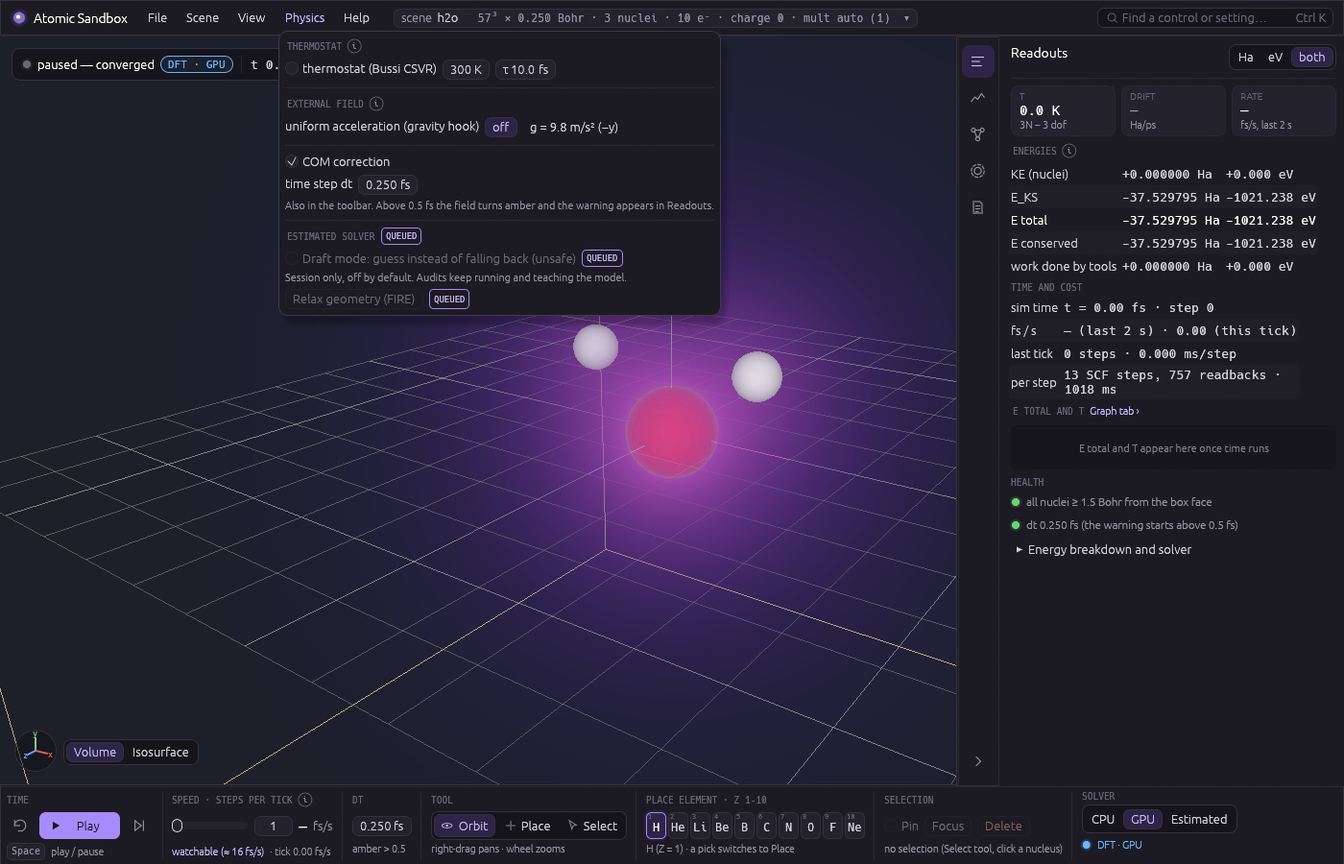
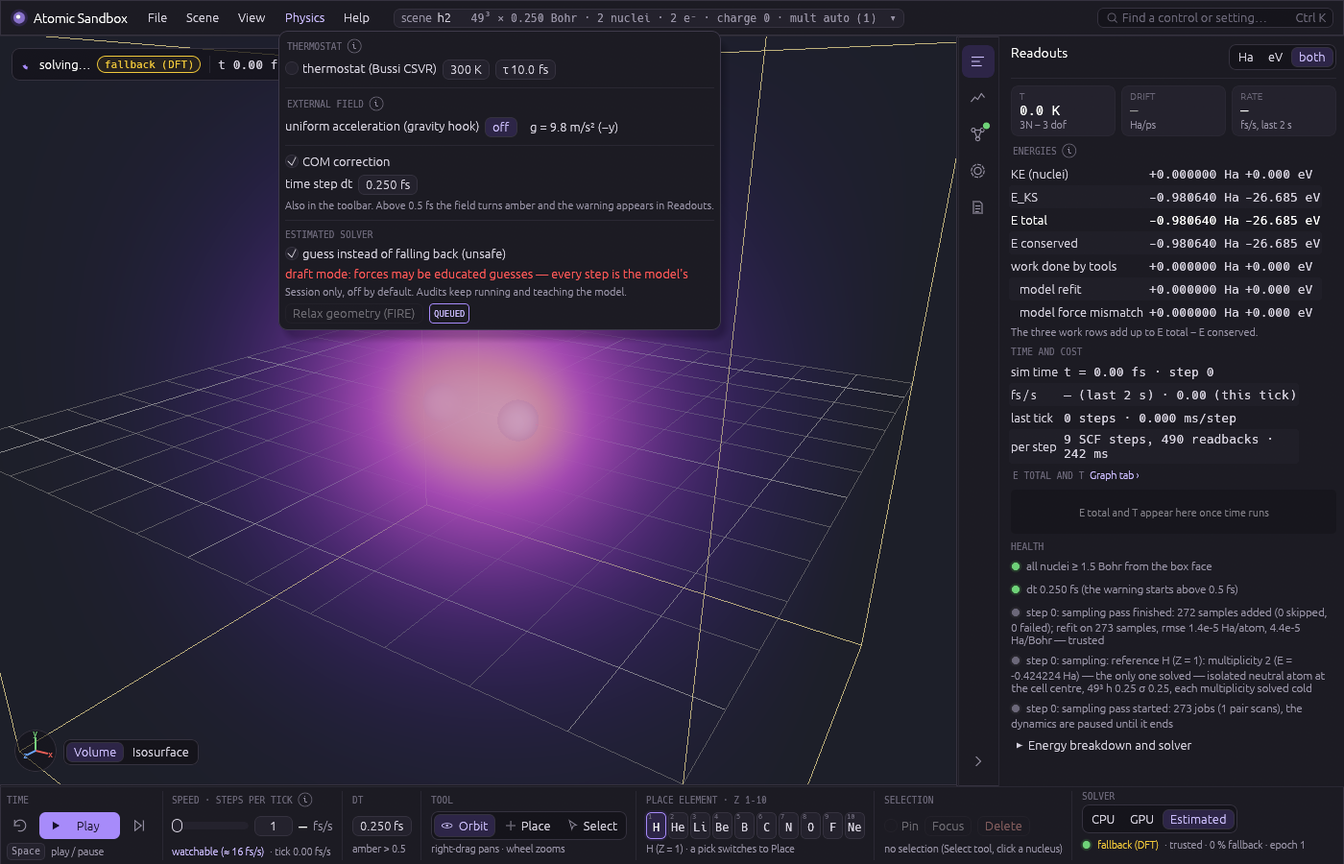
docs: M5b controls in the checklist (rows 149-164, Q1-Q5 now real), README queued list, screenshots with walls, draft mode and the cloud options

diff --git a/docs/superpowers/notes/2026-10-14-ui-redesign-checklist.md b/docs/superpowers/notes/2026-10-14-ui-redesign-checklist.md
@@ -8,7 +8,7 @@ item; this table is generated from a list of literal anchors, so a row only read
 anchor text exists at that line. Tooltip texts of the old panel are kept verbatim on the moved
 controls.
 
-**148 / 148 rows done.**
+**164 / 164 rows done** (148 from Appendix A, then the M5b viewer extras merged from `main` as rows 149–164).
 
 Abbreviations as in the mockup: TB = bottom toolbar, Dock ▸ X = right dock tab, Menu = top menu,
 Overlay = drawn in the 3D view.
@@ -16,49 +16,49 @@ Overlay = drawn in the 3D view.
 | # | Old item | New place | Status | Where (file:line) |
 |---|---|---|---|---|
 | 1 | heading "Atomic Sandbox" | Top bar brand + scene chip | done | `ui/menus.rs:93`, `ui/menus.rs:104` |
-| 2 | status line + spinner | Overlay status chip (all states kept) | done | `ui/overlays.rs:68`, `ui/overlays.rs:109` |
-| 3 | UI error (red) | Status chip red + Log (error) | done | `ui/overlays.rs:111`, `ui/logbook.rs:169` |
-| 4 | "paused by a solver failure" | Status chip red + Log + strip count | done | `ui/overlays.rs:115`, `ui/logbook.rs:180` |
-| 5 | "refused: …" (amber) | Status chip (amber line) and Log tab "last refusal" line, in place while the driver holds it + toast above the toolbar (re-raised per attempt) + Log entry | done | `ui/overlays.rs:97`, `ui/dock/log.rs:10`, `ui/logbook.rs:187`, `ui/overlays.rs:191` |
-| 6 | neutral status (saved / loaded / switched; "paused: … press Play to continue") | Status chip line until replaced or cleared (amber when it asks for something) + toast per set_status + Log (status) | done | `ui/overlays.rs:97`, `ui/mod.rs:274`, `ui/logbook.rs:166`, `ui/overlays.rs:191` |
+| 2 | status line + spinner | Overlay status chip (all states kept) | done | `ui/overlays.rs:92`, `ui/overlays.rs:133` |
+| 3 | UI error (red) | Status chip red + Log (error) | done | `ui/overlays.rs:135`, `ui/logbook.rs:169` |
+| 4 | "paused by a solver failure" | Status chip red + Log + strip count | done | `ui/overlays.rs:139`, `ui/logbook.rs:180` |
+| 5 | "refused: …" (amber) | Status chip (amber line) and Log tab "last refusal" line, in place while the driver holds it + toast above the toolbar (re-raised per attempt) + Log entry | done | `ui/overlays.rs:121`, `ui/dock/log.rs:10`, `ui/logbook.rs:187`, `ui/overlays.rs:218` |
+| 6 | neutral status (saved / loaded / switched; "paused: … press Play to continue") | Status chip line until replaced or cleared (amber when it asks for something) + toast per set_status + Log (status) | done | `ui/overlays.rs:121`, `ui/mod.rs:298`, `ui/logbook.rs:166`, `ui/overlays.rs:218` |
 | 7 | solver radio · CPU | TB Solver segmented | done | `ui/toolbar.rs:379` |
 | 8 | solver radio · GPU | TB Solver segmented, "no GPU adapter" | done | `ui/toolbar.rs:384` |
 | 9 | solver radio · estimated | TB Solver segmented, tooltip names the teacher | done | `ui/toolbar.rs:28` |
-| 10 | honesty line | Dock ▸ Model first line + i; Help ▸ Physics, honestly | done | `ui/dock/model.rs:18`, `ui/menus.rs:526` |
-| 11 | this step (surrogate / fallback / DFT) | TB Solver sub-line + status chip pill + Dock ▸ Model | done | `ui/dock/model.rs:266`, `ui/toolbar.rs:401`, `ui/overlays.rs:139` |
-| 12 | uncertainty vs bound | Dock ▸ Model (bar + numbers, tooltip kept) | done | `ui/dock/model.rs:269`, `ui/dock/model.rs:362` |
-| 13 | trusted (five variants) | TB trust light + Dock ▸ Model + strip dot | done | `ui/mod.rs:533`, `ui/dock/model.rs:286`, `ui/dock/mod.rs:59` |
-| 14 | samples (+ refit pending) | Dock ▸ Model | done | `ui/dock/model.rs:293` |
-| 15 | model epoch | Dock ▸ Model + TB sub-line | done | `ui/dock/model.rs:296`, `ui/toolbar.rs:433` |
-| 16 | last fit | Dock ▸ Model | done | `ui/dock/model.rs:299` |
-| 17 | last refit | Dock ▸ Model | done | `ui/dock/model.rs:306` |
-| 18 | fallbacks % of last 100 | Dock ▸ Model (bar) + TB sub-line | done | `ui/dock/model.rs:313`, `ui/toolbar.rs:433` |
-| 19 | teacher gap | Dock ▸ Model | done | `ui/dock/model.rs:324` |
-| 20 | last audit (verdict, gap, ms, lag, in flight) | Dock ▸ Model; audit lag also in Readouts | done | `ui/dock/model.rs:332`, `ui/dock/readouts.rs:168` |
-| 21 | mismatch work | Dock ▸ Model | done | `ui/dock/model.rs:353` |
+| 10 | honesty line | Dock ▸ Model first line + i; Help ▸ Physics, honestly | done | `ui/dock/model.rs:18`, `ui/menus.rs:607` |
+| 11 | this step (surrogate / fallback / DFT) | TB Solver sub-line + status chip pill + Dock ▸ Model | done | `ui/dock/model.rs:269`, `ui/toolbar.rs:401`, `ui/overlays.rs:163` |
+| 12 | uncertainty vs bound | Dock ▸ Model (bar + numbers, tooltip kept) | done | `ui/dock/model.rs:272`, `ui/dock/model.rs:366` |
+| 13 | trusted (five variants) | TB trust light + Dock ▸ Model + strip dot | done | `ui/mod.rs:584`, `ui/dock/model.rs:289`, `ui/dock/mod.rs:59` |
+| 14 | samples (+ refit pending) | Dock ▸ Model | done | `ui/dock/model.rs:296` |
+| 15 | model epoch | Dock ▸ Model + TB sub-line | done | `ui/dock/model.rs:299`, `ui/toolbar.rs:433` |
+| 16 | last fit | Dock ▸ Model | done | `ui/dock/model.rs:302` |
+| 17 | last refit | Dock ▸ Model | done | `ui/dock/model.rs:309` |
+| 18 | fallbacks % of last 100 | Dock ▸ Model (bar) + TB sub-line | done | `ui/dock/model.rs:316`, `ui/toolbar.rs:433` |
+| 19 | teacher gap | Dock ▸ Model | done | `ui/dock/model.rs:327` |
+| 20 | last audit (verdict, gap, ms, lag, in flight) | Dock ▸ Model; audit lag also in Readouts | done | `ui/dock/model.rs:335`, `ui/dock/readouts.rs:176` |
+| 21 | mismatch work | Dock ▸ Model | done | `ui/dock/model.rs:357` |
 | 22 | provenance mismatch warning | Dock ▸ Model warning slot + Log | done | `ui/dock/model.rs:36`, `ui/logbook.rs:244` |
 | 23 | autoload refused warning | Dock ▸ Model warning slot + Log | done | `ui/dock/model.rs:39`, `ui/logbook.rs:251` |
 | 24 | "Forget it and sample this scene" | Dock ▸ Model, in the warning | done | `ui/dock/model.rs:40` |
-| 25 | sampling progress bar | Sampling card + status chip + Dock ▸ Model | done | `ui/dock/model.rs:128`, `ui/overlays.rs:164` |
-| 26 | last teacher energy · skipped · failed | Sampling card + Dock ▸ Model | done | `ui/dock/model.rs:134` |
+| 25 | sampling progress bar | Sampling card + status chip + Dock ▸ Model | done | `ui/dock/model.rs:131`, `ui/overlays.rs:191` |
+| 26 | last teacher energy · skipped · failed | Sampling card + Dock ▸ Model | done | `ui/dock/model.rs:137` |
 | 27 | last pass summary | Dock ▸ Model + Log (pass) | done | `ui/dock/model.rs:53`, `ui/logbook.rs:226` |
-| 28 | long first-pass offer (amber) | Offer card in the view + Dock ▸ Model | done | `ui/dock/model.rs:140`, `ui/overlays.rs:27` |
-| 29 | offer "Start anyway (≈ t)" | Offer card (and Model tab) | done | `ui/dock/model.rs:153` |
+| 28 | long first-pass offer (amber) | Offer card in the view + Dock ▸ Model | done | `ui/dock/model.rs:143`, `ui/overlays.rs:27` |
+| 29 | offer "Start anyway (≈ t)" | Offer card (and Model tab) | done | `ui/dock/model.rs:156` |
 | 30 | DFT audit every n | Dock ▸ Model ▸ Audits | done | `ui/dock/model.rs:69` |
 | 31 | "(solver: n)" | Dock ▸ Model, beside the field | done | `ui/dock/model.rs:81` |
 | 32 | audits-off unsafe warning | Dock ▸ Model, under the field | done | `ui/dock/model.rs:85` |
-| 33 | plan · perturbations | Dock ▸ Model ▸ Sampling plan | done | `ui/dock/model.rs:229` |
-| 34 | plan · σ_r | Dock ▸ Model ▸ Sampling plan | done | `ui/dock/model.rs:233` |
-| 35 | plan · hot burst steps | Dock ▸ Model ▸ Sampling plan | done | `ui/dock/model.rs:239` |
-| 36 | plan · hot burst T | Dock ▸ Model ▸ Sampling plan | done | `ui/dock/model.rs:240` |
-| 37 | plan · scan points / pair | Dock ▸ Model ▸ Sampling plan | done | `ui/dock/model.rs:245` |
-| 38 | plan · seed | Dock ▸ Model ▸ Sampling plan | done | `ui/dock/model.rs:251` |
-| 39 | Start sampling / Sample more / armed "Start anyway" | Dock ▸ Model primary button (two clicks above 2 min) | done | `ui/dock/model.rs:158`, `ui/actions.rs:246` |
-| 40 | plan cost "n solves, ≈ t" | Dock ▸ Model, beside the button | done | `ui/actions.rs:262` |
-| 41 | Cancel | Sampling card + Dock ▸ Model | done | `ui/dock/model.rs:178`, `ui/overlays.rs:178` |
-| 42 | Forget model (two clicks within 4 s) | File ▸ Estimated model + Dock ▸ Model | done | `ui/dock/model.rs:213`, `ui/menus.rs:223` |
-| 43 | Save model | File ▸ Estimated model + Dock ▸ Model | done | `ui/dock/model.rs:194` |
-| 44 | Load model | File ▸ Estimated model + Dock ▸ Model | done | `ui/dock/model.rs:201` |
+| 33 | plan · perturbations | Dock ▸ Model ▸ Sampling plan | done | `ui/dock/model.rs:232` |
+| 34 | plan · σ_r | Dock ▸ Model ▸ Sampling plan | done | `ui/dock/model.rs:236` |
+| 35 | plan · hot burst steps | Dock ▸ Model ▸ Sampling plan | done | `ui/dock/model.rs:242` |
+| 36 | plan · hot burst T | Dock ▸ Model ▸ Sampling plan | done | `ui/dock/model.rs:243` |
+| 37 | plan · scan points / pair | Dock ▸ Model ▸ Sampling plan | done | `ui/dock/model.rs:248` |
+| 38 | plan · seed | Dock ▸ Model ▸ Sampling plan | done | `ui/dock/model.rs:254` |
+| 39 | Start sampling / Sample more / armed "Start anyway" | Dock ▸ Model primary button (two clicks above 2 min) | done | `ui/dock/model.rs:161`, `ui/actions.rs:268` |
+| 40 | plan cost "n solves, ≈ t" | Dock ▸ Model, beside the button | done | `ui/actions.rs:284` |
+| 41 | Cancel | Sampling card + Dock ▸ Model | done | `ui/dock/model.rs:181`, `ui/overlays.rs:205` |
+| 42 | Forget model (two clicks within 4 s) | File ▸ Estimated model + Dock ▸ Model | done | `ui/dock/model.rs:216`, `ui/menus.rs:223` |
+| 43 | Save model | File ▸ Estimated model + Dock ▸ Model | done | `ui/dock/model.rs:197` |
+| 44 | Load model | File ▸ Estimated model + Dock ▸ Model | done | `ui/dock/model.rs:204` |
 | 45 | model path label | File ▸ Estimated model header + Dock ▸ Model | done | `ui/menus.rs:220`, `ui/dock/model.rs:101` |
 | 46 | Play / Pause | TB ▸ Time primary button (Space; sampling reason kept) | done | `ui/toolbar.rs:231` |
 | 47 | Step | TB ▸ Time | done | `ui/toolbar.rs:250` |
@@ -66,40 +66,40 @@ Overlay = drawn in the 3D view.
 | 49 | speed slider (steps/tick, log) | TB ▸ Speed (slider + typed field) | done | `ui/toolbar.rs:102` |
 | 50 | "watchable (≈ fs/s)" | TB ▸ Speed sub-line | done | `ui/toolbar.rs:114` |
 | 51 | measured fs/s (last 2 s) | TB ▸ Speed (large) + Readouts tile and Time and cost | done | `ui/toolbar.rs:108`, `ui/dock/readouts.rs:76` |
-| 52 | fs/s this tick | TB ▸ Speed sub-line + Readouts | done | `ui/toolbar.rs:120`, `ui/dock/readouts.rs:143` |
-| 53 | steps last tick | Readouts ▸ Time and cost | done | `ui/dock/readouts.rs:145` |
-| 54 | ms / step | Readouts ▸ Time and cost | done | `ui/dock/readouts.rs:147` |
-| 55 | dt | TB ▸ dt + Physics menu | done | `ui/menus.rs:359`, `ui/toolbar.rs:128` |
-| 56 | t = fs, step N | Status chip + Readouts | done | `ui/overlays.rs:144`, `ui/dock/readouts.rs:138` |
-| 57 | dt warning (amber) | TB dt field amber + Readouts ▸ Health + Log | done | `ui/menus.rs:361`, `ui/dock/readouts.rs:187` |
-| 58 | T | Readouts tile + status chip | done | `ui/dock/readouts.rs:47`, `ui/overlays.rs:147` |
+| 52 | fs/s this tick | TB ▸ Speed sub-line + Readouts | done | `ui/toolbar.rs:120`, `ui/dock/readouts.rs:151` |
+| 53 | steps last tick | Readouts ▸ Time and cost | done | `ui/dock/readouts.rs:153` |
+| 54 | ms / step | Readouts ▸ Time and cost | done | `ui/dock/readouts.rs:155` |
+| 55 | dt | TB ▸ dt + Physics menu | done | `ui/menus.rs:440`, `ui/toolbar.rs:128` |
+| 56 | t = fs, step N | Status chip + Readouts | done | `ui/overlays.rs:171`, `ui/dock/readouts.rs:146` |
+| 57 | dt warning (amber) | TB dt field amber + Readouts ▸ Health + Log | done | `ui/menus.rs:442`, `ui/dock/readouts.rs:195` |
+| 58 | T | Readouts tile + status chip | done | `ui/dock/readouts.rs:47`, `ui/overlays.rs:174` |
 | 59 | KE (nuclei) | Readouts ▸ Energies (Ha / eV / both) | done | `ui/dock/readouts.rs:94` |
 | 60 | E_KS | Readouts ▸ Energies | done | `ui/dock/readouts.rs:95` |
 | 61 | E total | Readouts ▸ Energies (bold) | done | `ui/dock/readouts.rs:96` |
 | 62 | E conserved | Readouts ▸ Energies | done | `ui/dock/readouts.rs:98` |
 | 63 | work done by tools | Readouts ▸ Energies | done | `ui/dock/readouts.rs:105` |
-| 64 | model refit (estimated) | Readouts ▸ Energies, indented | done | `ui/dock/readouts.rs:116` |
-| 65 | model force mismatch (estimated) | Readouts ▸ Energies, indented | done | `ui/dock/readouts.rs:122` |
+| 64 | model refit (estimated) | Readouts ▸ Energies, indented | done | `ui/dock/readouts.rs:124` |
+| 65 | model force mismatch (estimated) | Readouts ▸ Energies, indented | done | `ui/dock/readouts.rs:130` |
 | 66 | drift (coloured) | Readouts tile + strip dot (1e-4 / 1e-3) | done | `ui/dock/readouts.rs:64`, `ui/dock/mod.rs:50` |
-| 67 | per step (model ms / SCF steps, readbacks, ms) | Readouts ▸ Time and cost | done | `ui/dock/readouts.rs:153` |
-| 68 | sparkline (E total by source, T, fallback dots) | Dock ▸ Graph (large) + mini in Readouts | done | `ui/dock/graph.rs:44`, `ui/dock/readouts.rs:180` |
-| 69 | sparkline ranges + "last N fs" | Dock ▸ Graph | done | `ui/dock/graph.rs:125` |
-| 70 | source legend | Dock ▸ Graph | done | `ui/dock/graph.rs:131` |
-| 71 | box warning (amber / red) | Readouts ▸ Health + Log + strip dot | done | `ui/dock/readouts.rs:183`, `ui/logbook.rs:192` |
-| 72 | dynamics notes (last 3) | Readouts ▸ Health (the 3 newest, as before) + Log (all) | done | `ui/dock/readouts.rs:194`, `ui/logbook.rs:99` |
-| 73 | thermostat on/off | Physics menu + status chip "CSVR T K" | done | `ui/menus.rs:386`, `ui/overlays.rs:149` |
-| 74 | thermostat target T | Physics menu | done | `ui/menus.rs:391` |
-| 75 | thermostat τ | Physics menu | done | `ui/menus.rs:395` |
-| 76 | gravity "g = 9.8 m/s² (−y)" | Physics menu | done | `ui/menus.rs:413` |
-| 77 | gravity "off" | Physics menu | done | `ui/menus.rs:410` |
-| 78 | COM correction | Physics menu | done | `ui/menus.rs:439` |
-| 79 | field magnitude readout | Physics menu, under the field | done | `ui/menus.rs:429` |
+| 67 | per step (model ms / SCF steps, readbacks, ms) | Readouts ▸ Time and cost | done | `ui/dock/readouts.rs:161` |
+| 68 | sparkline (E total by source, T, fallback dots) | Dock ▸ Graph (large) + mini in Readouts | done | `ui/dock/graph.rs:45`, `ui/dock/readouts.rs:188` |
+| 69 | sparkline ranges + "last N fs" | Dock ▸ Graph | done | `ui/dock/graph.rs:129` |
+| 70 | source legend | Dock ▸ Graph | done | `ui/dock/graph.rs:135` |
+| 71 | box warning (amber / red) | Readouts ▸ Health + Log + strip dot | done | `ui/dock/readouts.rs:191`, `ui/logbook.rs:192` |
+| 72 | dynamics notes (last 3) | Readouts ▸ Health (the 3 newest, as before) + Log (all) | done | `ui/dock/readouts.rs:202`, `ui/logbook.rs:99` |
+| 73 | thermostat on/off | Physics menu + status chip "CSVR T K" | done | `ui/menus.rs:467`, `ui/overlays.rs:176` |
+| 74 | thermostat target T | Physics menu | done | `ui/menus.rs:472` |
+| 75 | thermostat τ | Physics menu | done | `ui/menus.rs:476` |
+| 76 | gravity "g = 9.8 m/s² (−y)" | Physics menu | done | `ui/menus.rs:494` |
+| 77 | gravity "off" | Physics menu | done | `ui/menus.rs:491` |
+| 78 | COM correction | Physics menu | done | `ui/menus.rs:520` |
+| 79 | field magnitude readout | Physics menu, under the field | done | `ui/menus.rs:510` |
 | 80 | preset combo | File ▸ Presets + scene chip | done | `ui/menus.rs:176`, `ui/menus.rs:138` |
 | 81 | Reset | File ▸ Presets + scene chip | done | `ui/menus.rs:185` |
 | 82 | tool Orbit | TB ▸ Tool | done | `ui/toolbar.rs:268` |
 | 83 | tool Place | TB ▸ Tool | done | `ui/toolbar.rs:269` |
 | 84 | tool Select | TB ▸ Tool | done | `ui/toolbar.rs:270` |
-| 85 | element to place (H–Ne) | TB ▸ element chips (pick → Place); compact flyout | done | `ui/toolbar.rs:286`, `ui/toolbar.rs:312`, `ui/actions.rs:87` |
+| 85 | element to place (H–Ne) | TB ▸ element chips (pick → Place); compact flyout | done | `ui/toolbar.rs:286`, `ui/toolbar.rs:312`, `ui/actions.rs:94` |
 | 86 | "no selection" hint | TB ▸ Selection placeholder + Dock ▸ Selection | done | `ui/toolbar.rs:160`, `ui/dock/selection.rs:12` |
 | 87 | "selected: X #i at (x, y, z) Bohr" | TB ▸ Selection label + Dock ▸ Selection | done | `ui/toolbar.rs:151`, `ui/dock/selection.rs:24` |
 | 88 | Delete selected | TB ▸ Selection + Dock ▸ Selection | done | `ui/toolbar.rs:366`, `ui/dock/selection.rs:47` |
@@ -115,54 +115,70 @@ Overlay = drawn in the 3D view.
 | 98 | grid h | Scene ▸ Grid | done | `ui/menus.rs:287` |
 | 99 | cost readout | Scene ▸ Grid | done | `ui/menus.rs:296` |
 | 100 | Apply grid | Scene ▸ Grid (enabled with a pending edit) | done | `ui/menus.rs:289` |
-| 101 | density volume / isosurface | View ▸ Density + quick switch in the view | done | `ui/menus.rs:321`, `ui/overlays.rs:228` |
-| 102 | gamma | View ▸ Density (disabled for isosurface) | done | `ui/menus.rs:327` |
-| 103 | opacity | View ▸ Density (disabled for isosurface) | done | `ui/menus.rs:328` |
-| 104 | iso (× ρ max) | View ▸ Density (disabled for volume) | done | `ui/menus.rs:329` |
-| 105 | cell | View ▸ Display aids | done | `ui/menus.rs:340` |
-| 106 | floor grid | View ▸ Display aids | done | `ui/menus.rs:341` |
-| 107 | axes | View ▸ Display aids | done | `ui/menus.rs:342` |
-| 108 | smooth motion | View ▸ Display aids | done | `ui/menus.rs:350` |
-| 109 | placement plane | View ▸ Display aids | done | `ui/menus.rs:345` |
-| 110 | spacing 1 Bohr / 1 Å | View ▸ Display aids | done | `ui/menus.rs:348` |
-| 111 | E_KS (breakdown) | Readouts ▸ Energy breakdown and solver (collapsible) | done | `ui/dock/readouts.rs:228` |
-| 112 | kinetic (electrons) | same collapsible | done | `ui/dock/readouts.rs:229` |
-| 113 | external | same collapsible | done | `ui/dock/readouts.rs:230` |
-| 114 | Hartree | same collapsible | done | `ui/dock/readouts.rs:231` |
-| 115 | xc | same collapsible | done | `ui/dock/readouts.rs:232` |
-| 116 | nuclear | same collapsible | done | `ui/dock/readouts.rs:233` |
-| 117 | note "smeared nuclei (σ = …)" | same collapsible | done | `ui/dock/readouts.rs:236` |
-| 118 | surrogate / fallback breakdown note | same collapsible | done | `ui/dock/readouts.rs:238` |
-| 119 | GPU f32 scatter note | same collapsible | done | `ui/dock/readouts.rs:243` |
-| 120 | SCF steps | same collapsible | done | `ui/dock/readouts.rs:251` |
-| 121 | eigen residual (final) | same collapsible | done | `ui/dock/readouts.rs:254` |
-| 122 | Poisson residual | same collapsible | done | `ui/dock/readouts.rs:255` |
-| 123 | solve (ms, readbacks, engine) | same collapsible | done | `ui/dock/readouts.rs:259` |
-| 124 | grid | same collapsible | done | `ui/dock/readouts.rs:263` |
-| 125 | ρ max | same collapsible | done | `ui/dock/readouts.rs:267` |
-| 126 | evaluation notes | same collapsible + Log | done | `ui/dock/readouts.rs:270`, `ui/logbook.rs:219` |
-| 127 | evaluation warnings (amber) | Readouts ▸ Health + Log | done | `ui/dock/readouts.rs:191`, `ui/logbook.rs:219` |
+| 101 | density volume / isosurface | View ▸ Density + quick switch in the view | done | `ui/menus.rs:404`, `ui/overlays.rs:255` |
+| 102 | gamma | View ▸ Density (disabled for isosurface) | done | `ui/menus.rs:410` |
+| 103 | opacity | View ▸ Density (disabled for isosurface) | done | `ui/menus.rs:411` |
+| 104 | iso (× ρ max) | View ▸ Density (disabled for volume) | done | `ui/menus.rs:412` |
+| 105 | cell | View ▸ Display aids | done | `ui/menus.rs:421` |
+| 106 | floor grid | View ▸ Display aids | done | `ui/menus.rs:422` |
+| 107 | axes | View ▸ Display aids | done | `ui/menus.rs:423` |
+| 108 | smooth motion | View ▸ Display aids | done | `ui/menus.rs:431` |
+| 109 | placement plane | View ▸ Display aids | done | `ui/menus.rs:426` |
+| 110 | spacing 1 Bohr / 1 Å | View ▸ Display aids | done | `ui/menus.rs:429` |
+| 111 | E_KS (breakdown) | Readouts ▸ Energy breakdown and solver (collapsible) | done | `ui/dock/readouts.rs:236` |
+| 112 | kinetic (electrons) | same collapsible | done | `ui/dock/readouts.rs:237` |
+| 113 | external | same collapsible | done | `ui/dock/readouts.rs:238` |
+| 114 | Hartree | same collapsible | done | `ui/dock/readouts.rs:239` |
+| 115 | xc | same collapsible | done | `ui/dock/readouts.rs:240` |
+| 116 | nuclear | same collapsible | done | `ui/dock/readouts.rs:241` |
+| 117 | note "smeared nuclei (σ = …)" | same collapsible | done | `ui/dock/readouts.rs:244` |
+| 118 | surrogate / fallback breakdown note | same collapsible | done | `ui/dock/readouts.rs:246` |
+| 119 | GPU f32 scatter note | same collapsible | done | `ui/dock/readouts.rs:251` |
+| 120 | SCF steps | same collapsible | done | `ui/dock/readouts.rs:259` |
+| 121 | eigen residual (final) | same collapsible | done | `ui/dock/readouts.rs:262` |
+| 122 | Poisson residual | same collapsible | done | `ui/dock/readouts.rs:263` |
+| 123 | solve (ms, readbacks, engine) | same collapsible | done | `ui/dock/readouts.rs:267` |
+| 124 | grid | same collapsible | done | `ui/dock/readouts.rs:271` |
+| 125 | ρ max | same collapsible | done | `ui/dock/readouts.rs:275` |
+| 126 | evaluation notes | same collapsible + Log | done | `ui/dock/readouts.rs:278`, `ui/logbook.rs:219` |
+| 127 | evaluation warnings (amber) | Readouts ▸ Health + Log | done | `ui/dock/readouts.rs:199`, `ui/logbook.rs:219` |
 | 128 | scene path field | File ▸ Scene file | done | `ui/menus.rs:197` |
 | 129 | Save | File ▸ Scene file | done | `ui/menus.rs:199` |
-| 130 | Load (+ .model sidecar) | File ▸ Scene file (sidecar rule and "sampling was running" kept) | done | `ui/menus.rs:206`, `ui/actions.rs:159` |
+| 130 | Load (+ .model sidecar) | File ▸ Scene file (sidecar rule and "sampling was running" kept) | done | `ui/menus.rs:206`, `ui/actions.rs:166` |
 | 131 | atom card title | Overlay card top-right of the view + Dock ▸ Selection; card toggle (new) | done | `atom_card.rs:59`, `ui/dock/selection.rs:85` |
 | 132 | "nucleus #i: p protons · n neutrons" | Card + Dock ▸ Selection | done | `atom_card.rs:105`, `ui/dock/selection.rs:27` |
 | 133 | "z electrons (neutral atom), shells …" | Card + Dock ▸ Selection | done | `atom_card.rs:73`, `ui/dock/selection.rs:30` |
 | 134 | Bohr schematic drawing | Card | done | `atom_card.rs:108` |
 | 135 | "schematic — not to scale" | Card | done | `atom_card.rs:141` |
 | 136 | shared-electrons caveat | Card (line + i) + Selection tab + Help | done | `atom_card.rs:82`, `ui/dock/selection.rs:86` |
-| 137 | cell box (amber wire) | Overlay, unchanged (toggle #105) | done | `overlay.rs:39` |
-| 138 | floor grid | Overlay, unchanged (toggle #106) | done | `overlay.rs:42` |
-| 139 | axes | Overlay + corner gizmo (new) (toggle #107) | done | `overlay.rs:47`, `ui/overlays.rs:253` |
-| 140 | placement plane (blue) | Overlay in Place mode (toggle #109) | done | `overlay.rs:50` |
-| 141 | distance guides | Overlay (through the frame's viewport, clipped to it) + list in Dock ▸ Selection | done | `viewer.rs:658`, `ui/dock/selection.rs:58` |
-| 142 | placement marker cross | Overlay | done | `viewer.rs:664` |
-| 143 | drag spring ring + tether | Overlay | done | `viewer.rs:634` |
-| 144 | pin square | Overlay | done | `viewer.rs:622` |
+| 137 | cell box (amber wire) | Overlay, unchanged (toggle #105) | done | `overlay.rs:41` |
+| 138 | floor grid | Overlay, unchanged (toggle #106) | done | `overlay.rs:48` |
+| 139 | axes | Overlay + corner gizmo (new) (toggle #107) | done | `overlay.rs:53`, `ui/overlays.rs:280` |
+| 140 | placement plane (blue) | Overlay in Place mode (toggle #109) | done | `overlay.rs:56` |
+| 141 | distance guides | Overlay (through the frame's viewport, clipped to it) + list in Dock ▸ Selection | done | `viewer.rs:895`, `ui/dock/selection.rs:58` |
+| 142 | placement marker cross | Overlay | done | `viewer.rs:901` |
+| 143 | drag spring ring + tether | Overlay | done | `viewer.rs:871` |
+| 144 | pin square | Overlay | done | `viewer.rs:859` |
 | 145 | faded-density label | Overlay bottom centre of the view (centred on the viewport the scene now renders into) | done | `ui/overlays.rs:41` |
-| 146 | Space: play / pause | Unchanged; shown under TB ▸ Time | done | `main.rs:379`, `ui/toolbar.rs:94` |
-| 147 | Delete: remove selected | Unchanged; shown in Selection tab and Help | done | `main.rs:369`, `ui/dock/selection.rs:54` |
-| 148 | mouse orbit / pan / zoom | Unchanged, in the viewport's frame (pan scaled by its height); Help ▸ Controls | done | `main.rs:421`, `ui/menus.rs:503` |
+| 146 | Space: play / pause | Unchanged; shown under TB ▸ Time | done | `main.rs:437`, `ui/toolbar.rs:94` |
+| 147 | Delete: remove selected | Unchanged; shown in Selection tab and Help | done | `main.rs:427`, `ui/dock/selection.rs:54` |
+| 148 | mouse orbit / pan / zoom | Unchanged, in the viewport's frame (pan scaled by its height); Help ▸ Controls | done | `main.rs:479`, `ui/menus.rs:584` |
+| 149 | M5b: container walls on/off | Scene ▸ Container (Q4 seam) | done | `ui/menus.rs:320`, `ui/menus.rs:327` |
+| 150 | M5b: container half-width slider and its Bohr/Å readout | Scene ▸ Container | done | `ui/menus.rs:335`, `ui/menus.rs:342` |
+| 151 | M5b: "the run's walls" line | Scene ▸ Container | done | `ui/menus.rs:350` |
+| 152 | M5b: "of which walls (piston)" row | Readouts ▸ Energies, indented | done | `ui/dock/readouts.rs:116` |
+| 153 | M5b: atomic superposition between DFT clouds | View ▸ Density ▸ Estimated solver's cloud (Q5 seam) | done | `ui/menus.rs:361`, `ui/menus.rs:367` |
+| 154 | M5b: refresh cloud every N s (+ slider) | View ▸ Density ▸ Estimated solver's cloud | done | `ui/menus.rs:371` |
+| 155 | M5b: "(cloud options apply to the estimated solver …)" note | View ▸ Density | done | `ui/menus.rs:378` |
+| 156 | M5b: draft mode "guess instead of falling back (unsafe)" | Physics ▸ Estimated solver + Dock ▸ Model (Q1 seam) | done | `ui/menus.rs:386`, `ui/dock/model.rs:115` |
+| 157 | M5b: draft mode's red panel line | Under the draft toggle (both places) | done | `ui/menus.rs:396` |
+| 158 | M5b: red "extrapolating" banner | Overlay, top centre of the view (Q2 seam) | done | `ui/overlays.rs:70`, `viewer.rs:955` |
+| 159 | M5b: atoms tinted by uncertainty | 3D spheres (Q3), unchanged | done | `gfx.rs:338` |
+| 160 | M5b: draft guesses red in the sparkline + "draft guess" legend | Dock ▸ Graph + Readouts mini sparkline; status chip pill (new) | done | `ui/dock/graph.rs:140`, `ui/overlays.rs:165` |
+| 161 | M5b: last audit "model off by … at step n" | Dock ▸ Model | done | `ui/dock/model.rs:347` |
+| 162 | M5b: E conserved / work-done tooltips with the walls | Readouts ▸ Energies (main's text) | done | `ui/dock/readouts.rs:101` |
+| 163 | M5b: smooth-motion tooltip with the crossfade | View ▸ Display aids (main's text) | done | `ui/menus.rs:432` |
+| 164 | M5b: start-up flags --scene / --walls / --draft / --cloud-refresh | Unchanged (window and --screenshot) | done | `main.rs:126`, `screenshot.rs:126` |
 
 ## Deviations from the mockup's wording (coordinator rulings, fix round 1)
 
@@ -197,17 +213,18 @@ Presses outside the viewport are ignored. The `--screenshot` frame is still the 
 - Dock strip peeks (hover a tab button for its key numbers) and status dots.
 - Help windows with the long-form "Physics, honestly" texts (`ui/menus.rs` `help_text`).
 
-## Queued items (Appendix B): reserved, not implemented
+## Appendix B items
 
-Grep `SEAM(Q` for the seams. Each is a greyed, disabled control with a `QUEUED` tag.
+Q1–Q5 arrived with the M5b merge from `main` and are real controls now (rows 149–164). Q6–Q8
+are still greyed, disabled placeholders with a `QUEUED` tag; grep `SEAM(Q` for their seams.
 
-| # | Item | Seam |
+| # | Item | Where |
 |---|---|---|
-| Q1 | draft mode toggle | `ui/menus.rs` Physics ▸ Estimated solver; `ui/dock/model.rs` last row |
-| Q2 | "extrapolating" banner | `ui/overlays.rs` `show` (comment at the end) |
-| Q3 | per-atom uncertainty tint | `viewer.rs` `distance_overlay` (named in the `ui/overlays.rs` seam comment) |
-| Q4 | container walls + size | `ui/menus.rs` Scene ▸ Container |
-| Q5 | live-cloud refresh | `ui/menus.rs` View ▸ Density |
-| Q6 | bond lines and molecule names | `ui/menus.rs` View ▸ Display aids; `ui/dock/selection.rs` Bonds |
-| Q7 | composition badge | `ui/menus.rs` View ▸ Display aids; `ui/dock/selection.rs` Bonds |
-| Q8 | relax (FIRE) | `ui/menus.rs` Physics ▸ Estimated solver |
+| Q1 | draft mode toggle | **real**: `ui/menus.rs` `draft_control` (Physics ▸ Estimated solver; also Dock ▸ Model) |
+| Q2 | "extrapolating" banner | **real**: `ui/overlays.rs` `draft_banner` (top centre of the view) |
+| Q3 | per-atom uncertainty tint | **real**: `gfx::risk_tint` of `viewer::Viewer::atom_risk` (sphere colour) |
+| Q4 | container walls + size | **real**: `ui/menus.rs` `walls_controls` (Scene ▸ Container) |
+| Q5 | live-cloud refresh | **real**: `ui/menus.rs` `cloud_controls` (View ▸ Density) |
+| Q6 | bond lines and molecule names | queued: `ui/menus.rs` View ▸ Display aids; `ui/dock/selection.rs` Bonds |
+| Q7 | composition badge | queued: `ui/menus.rs` View ▸ Display aids; `ui/dock/selection.rs` Bonds |
+| Q8 | relax (FIRE) | queued: `ui/menus.rs` Physics (`SEAM(Q8)`) |

diff --git a/README.md b/README.md
@@ -68,7 +68,7 @@ The window has four parts (screenshots below): a **menu bar** at the top (File, 
 | View | **View ▸ Density**: volume or isosurface (also the quick switch at the bottom left of the view), gamma / opacity / iso sliders; estimated solver: **atomic superposition between DFT clouds** (on by default) and **refresh cloud every N s** (off by default, 1–10 s); **View ▸ Display aids**: cell box, floor grid, axes (and the corner gizmo), placement plane, 1 Bohr or 1 Å spacing; **smooth motion** (on by default) draws the nuclei between the last two snapshots, one publish interval behind, so they glide at the frame rate instead of jumping at the simulation's tick rate, and crossfades the density cloud between the last two solved densities with the same weight (a display blend, not a transported density; it snaps on a grid change) |
 | Help | **Help**: the controls, and the long-form "Physics, honestly" notes (LSDA and smeared nuclei, the estimated solver as a model of this DFT, gravity, the atom card, fast play) |
 
-Items requested in the M5 notes and not built yet (draft mode, container walls, live-cloud refresh, bond lines and molecule names, the composition badge, relax) have greyed, disabled places marked **QUEUED** in the menus and the dock.
+Items requested in the M5 notes and not built yet (bond lines and molecule names, the composition badge, relax) have greyed, disabled places marked **QUEUED** in the menus and the dock.
 
 | | |
 |---|---|
